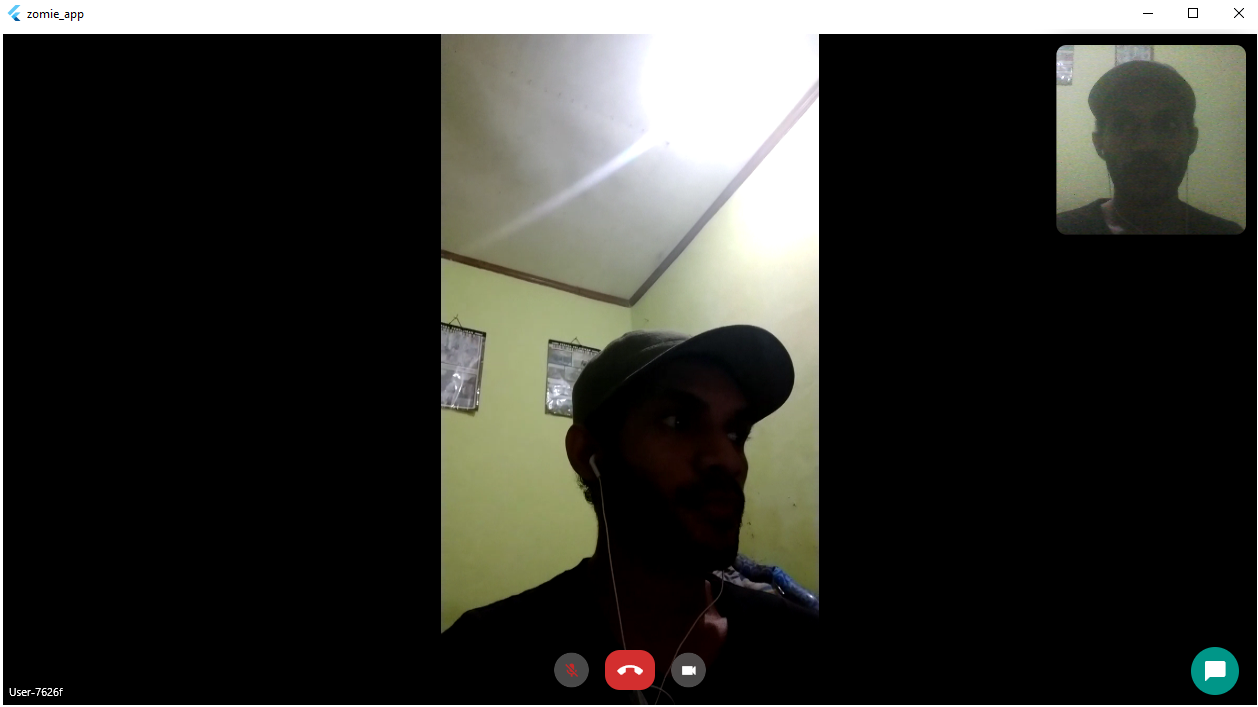
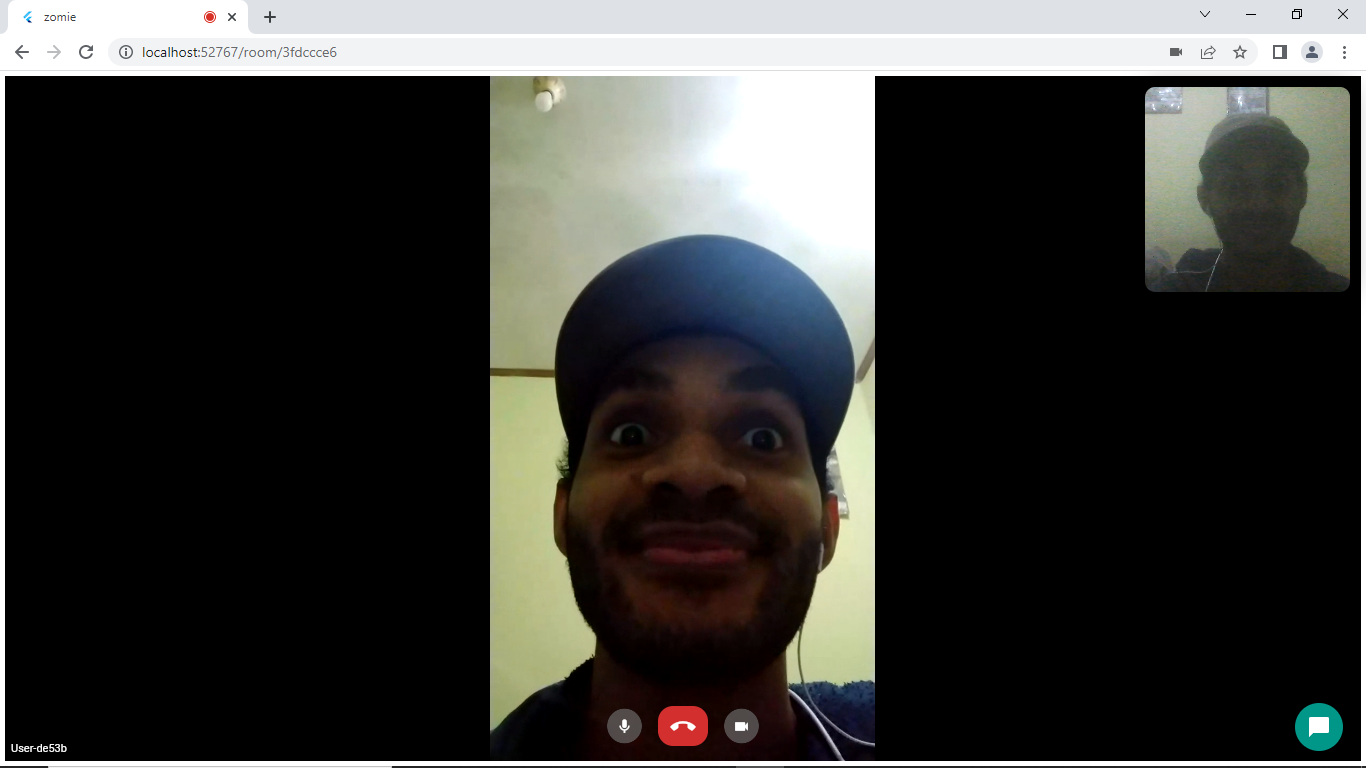
[1]. alternative add track consumer when running on web

Changed region(s): [[0.0, 0.0, 1.0, 1.0]]

diff --git a/lib/Services/WebRTC/RTCConnection/WRTCConsumer.dart b/lib/Services/WebRTC/RTCConnection/WRTCConsumer.dart
@@ -1,6 +1,7 @@
 import 'dart:async';
 import 'dart:convert';
 
+import 'package:flutter/foundation.dart';
 import 'package:flutter/material.dart';
 import 'package:flutter_webrtc/flutter_webrtc.dart';
 import 'package:zomie_app/Services/WebRTC/Config/WRTCConfig.dart';
@@ -193,6 +194,8 @@ class WRTCConsumer {
     }
   }
 
+  Map<String, String> _tamp = {};
+
   getTrack() {
     try {
       // this.peer!.onAddStream = (e) {
@@ -206,13 +209,22 @@ class WRTCConsumer {
       // };
 
       this.peer!.onTrack = (e) {
-        print("on track");
-        e.streams[0].onAddTrack = (e2) {
-          print("on add track");
-        };
-        e.streams[0].onRemoveTrack = (e2) {
-          print("on add track");
-        };
+        if (kIsWeb) {
+          print("-- on track: " + e.streams.first.id);
+          if (!_tamp.containsKey(e.streams.first.id)) {
+            _tamp.addAll({e.streams.first.id: e.streams.first.id});
+          } else {
+            _tamp.remove(e.streams.first.id);
+            setTrack(e.streams.first);
+          }
+        }
+
+        // e.streams.first.onAddTrack = (e2) {
+        //   print("on add track");
+        // };
+        // e.streams.first.onRemoveTrack = (e2) {
+        //   print("on add track");
+        // };
       };
       this.peer!.onAddTrack = (stream, track) {
         print("on add track");
